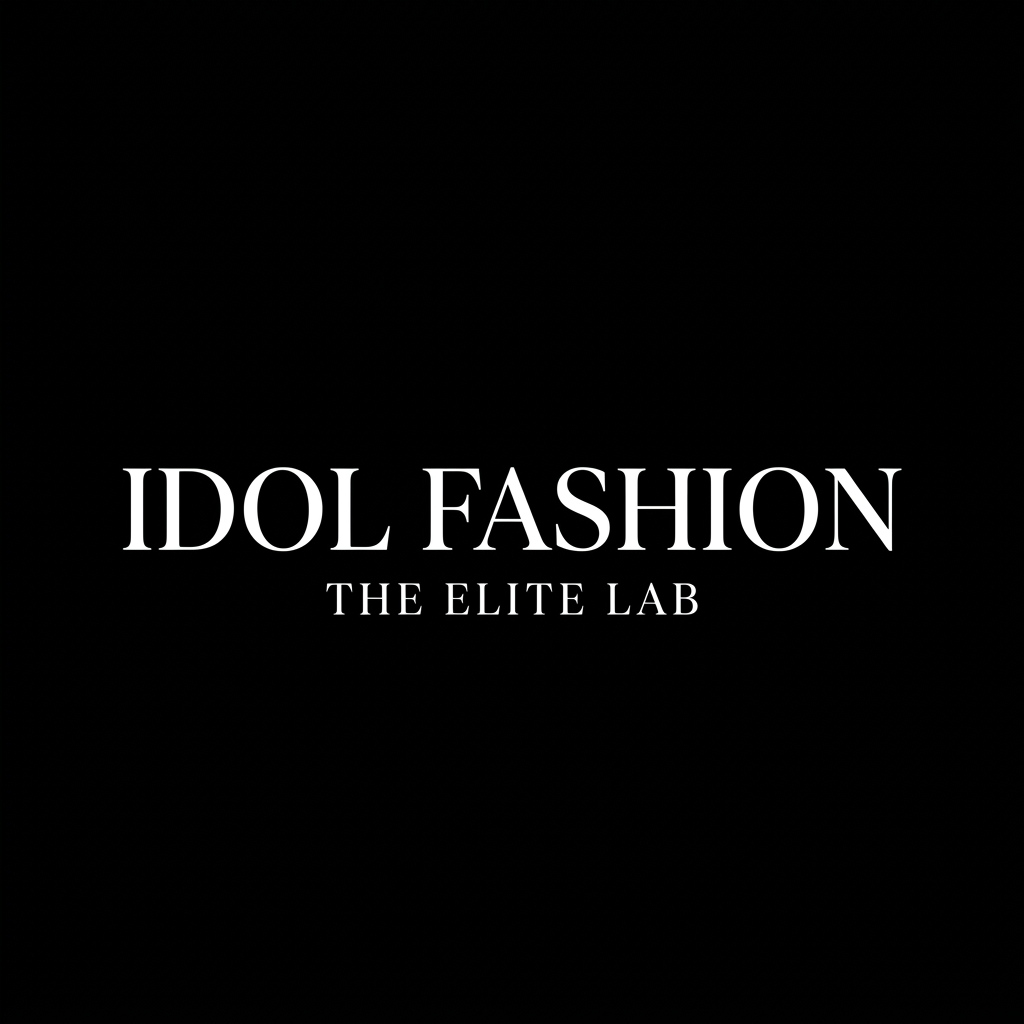
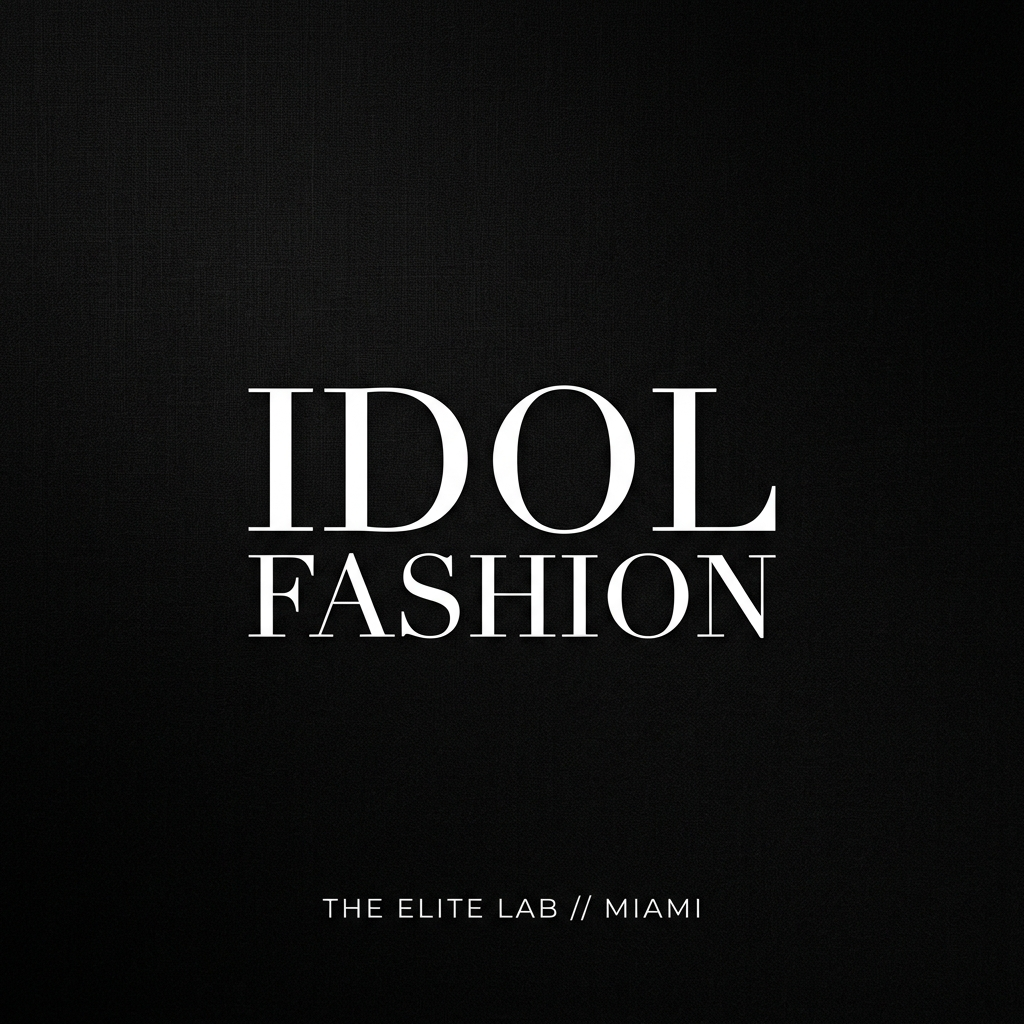
fix: update OpenGraph image with premium branding for social sharing

Changed region(s): [[0.0938, 0.0938, 0.875, 0.625], [0.3125, 0.875, 0.6875, 0.9062]]

diff --git a/src/app/layout.tsx b/src/app/layout.tsx
@@ -7,17 +7,24 @@ export const metadata: Metadata = {
   metadataBase: new URL('https://idolfashiontheelitelab.com'),
   title: "Idol Fashion: The Elite Lab",
   description: "Advanced model, designer, and photographer technical training and management. Where science meets high fashion.",
+  icons: {
+    icon: '/assets/logo.png',
+    apple: '/assets/logo.png',
+  },
   openGraph: {
     title: "Idol Fashion: The Elite Lab",
-    description: "Advanced model, designer, and photographer technical training and management.",
+    description: "Advanced model, designer, and photographer technical training and management. Miami's premier talent infrastructure.",
+    url: 'https://idolfashiontheelitelab.com',
+    siteName: 'Idol Fashion',
     images: [
       {
         url: "/assets/og-image.png",
         width: 1200,
         height: 630,
-        alt: "Idol Fashion Logo",
+        alt: "Idol Fashion: The Elite Lab",
       },
     ],
+    locale: 'en_US',
     type: "website",
   },
   twitter: {
